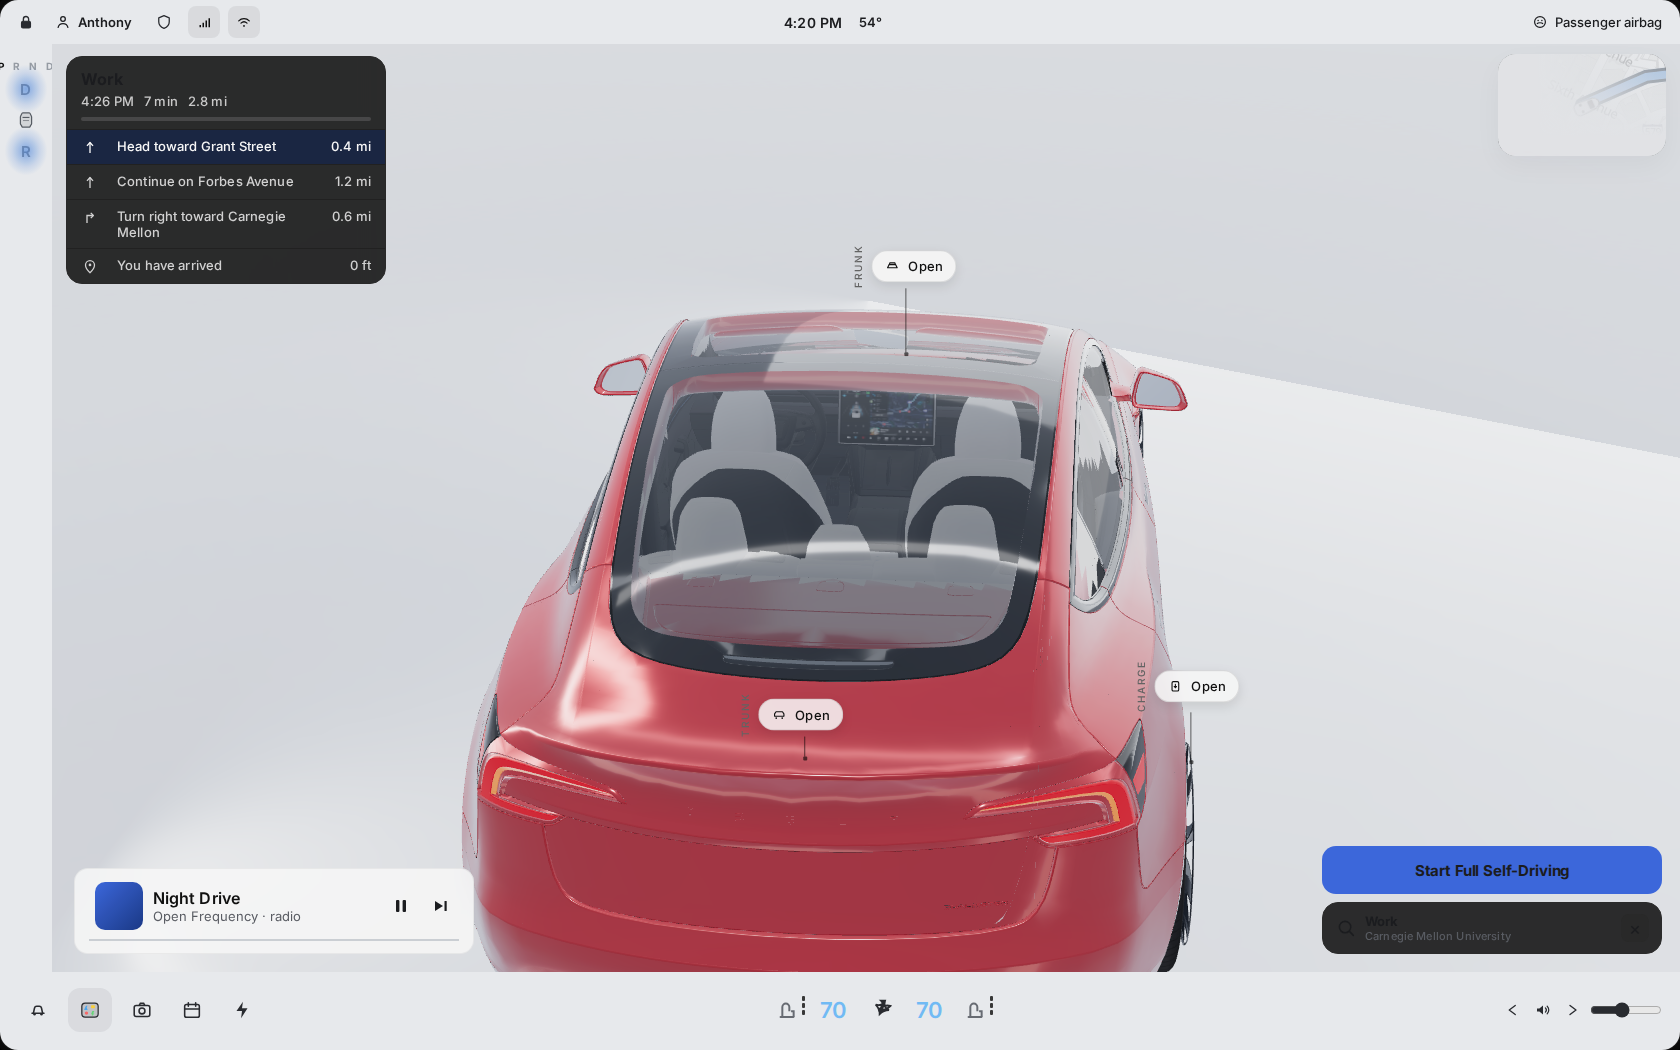
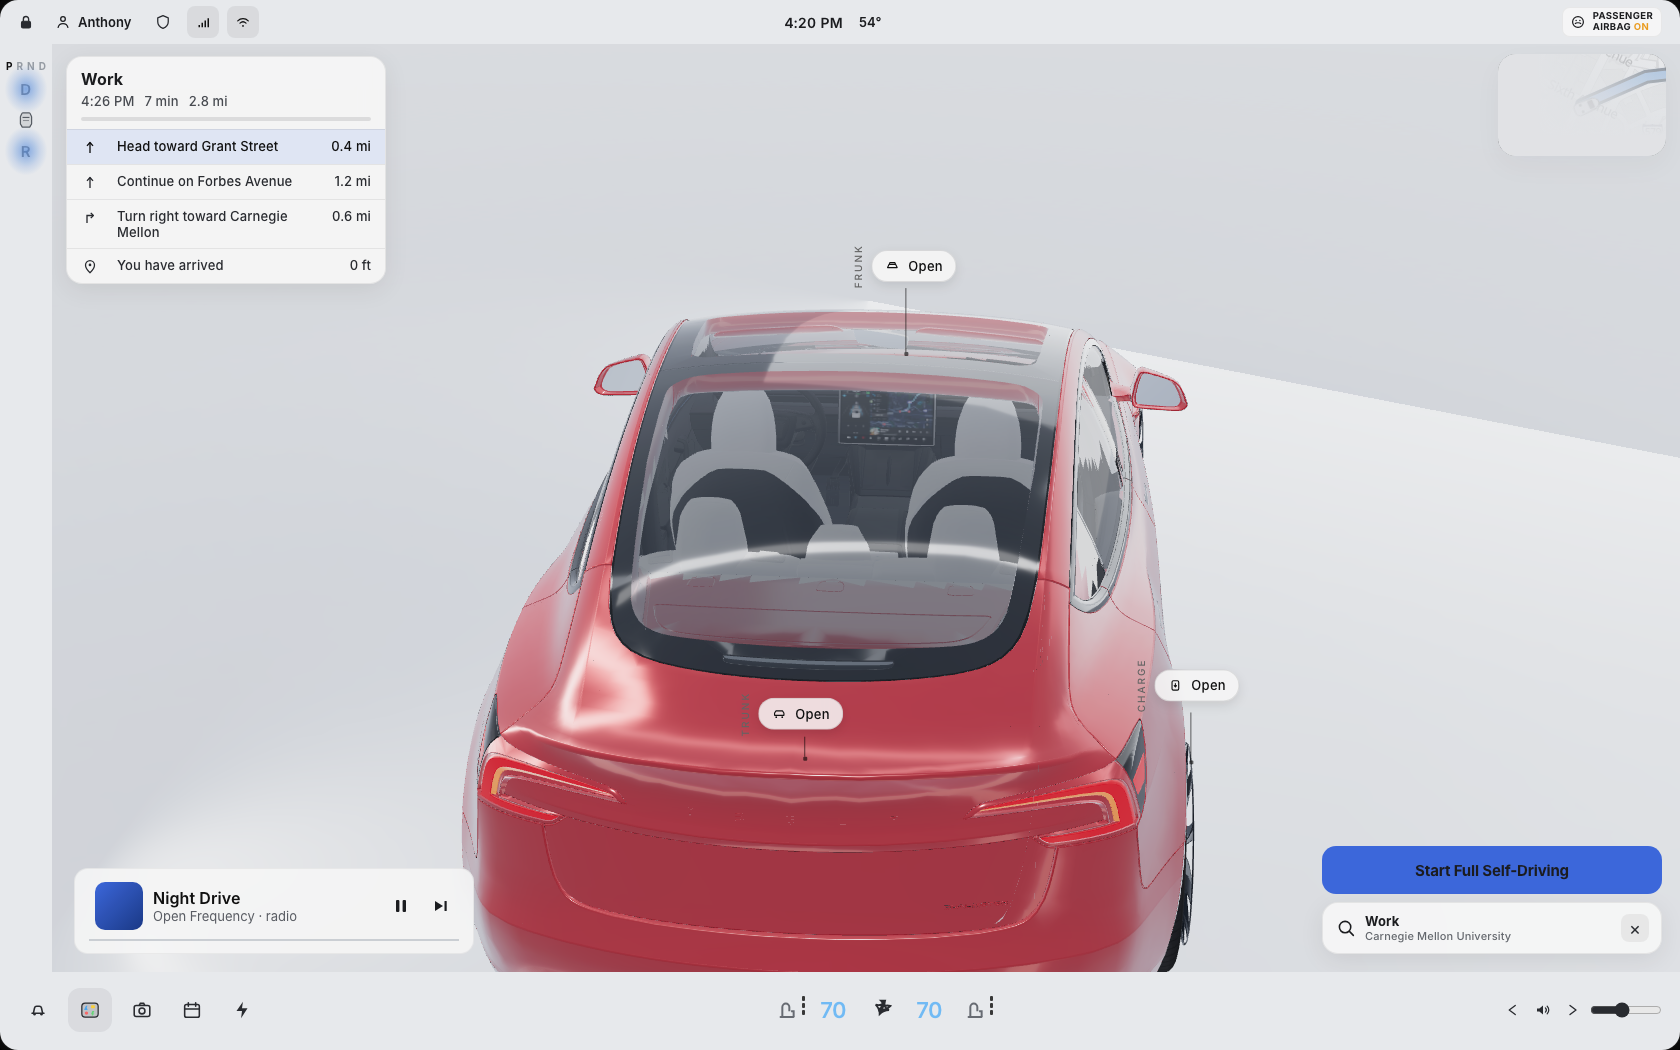
Match status-bar airbag chip and light parked route card to references

diff --git a/src/styles/app.css b/src/styles/app.css
@@ -242,10 +242,12 @@ button {
 
 .auto-shift-prnd {
   display: flex;
-  gap: 7px;
+  justify-content: center;
+  gap: 4px;
+  width: 100%;
   font-size: 10px;
   font-weight: 650;
-  letter-spacing: 0.2em;
+  letter-spacing: 0;
   color: #9aa0a8;
 }
 
@@ -469,6 +471,70 @@ button {
 .status-airbag svg {
   width: 18px;
   height: 18px;
+}
+
+/* Two-line chip, as in nata-status-bar.jpg: PASSENGER / AIRBAG ON. */
+.status-airbag-copy {
+  display: flex;
+  flex-direction: column;
+  font-size: 9.5px;
+  font-weight: 650;
+  line-height: 1.15;
+  letter-spacing: 0.04em;
+  text-transform: uppercase;
+}
+
+.status-airbag-copy em {
+  font-style: normal;
+  color: #f0a020;
+}
+
+.bezel.parked .status-airbag {
+  padding: 4px 9px 4px 7px;
+  border-radius: 8px;
+  background: rgba(255, 255, 255, 0.85);
+  box-shadow: inset 0 0 0 1px rgba(0, 0, 0, 0.06);
+}
+
+/* Parked is the light studio: route card + destination chip follow it. */
+.bezel.parked .route-card,
+.bezel.parked .dest-chip {
+  background: rgba(255, 255, 255, 0.9);
+  border-color: rgba(0, 0, 0, 0.07);
+  color: #1c1d20;
+  box-shadow: 0 6px 24px rgba(0, 0, 0, 0.08);
+}
+
+.bezel.parked .eta-row {
+  color: #4a4d53;
+}
+
+.bezel.parked .turn {
+  color: #2a2c31;
+  border-top-color: rgba(0, 0, 0, 0.07);
+}
+
+.bezel.parked .turn.on {
+  background: #e6ecfa;
+  color: #111;
+}
+
+.bezel.parked .trip-bar {
+  background: rgba(0, 0, 0, 0.1);
+}
+
+.bezel.parked .dest-chip span span {
+  color: #666a70;
+}
+
+.bezel.parked .chip-x {
+  background: rgba(0, 0, 0, 0.06);
+  color: #2a2c31;
+}
+
+.bezel.parked .route-actions {
+  background: #f4f5f7;
+  border-top-color: rgba(0, 0, 0, 0.07);
 }
 
 .status-weather {

diff --git a/src/chrome/StatusBar.tsx b/src/chrome/StatusBar.tsx
@@ -86,7 +86,12 @@ export function StatusBar() {
       <div className="status-right">
         <span className="status-airbag" title="Passenger airbag on">
           <IconAirbag />
-          <span>Passenger airbag</span>
+          <span className="status-airbag-copy">
+            <span>Passenger</span>
+            <span>
+              Airbag <em>On</em>
+            </span>
+          </span>
         </span>
       </div>
     </header>

diff --git a/docs/qa/CHECKLIST.md b/docs/qa/CHECKLIST.md
@@ -20,7 +20,7 @@ Baseline captured from this harness on 2026-09-16 (`docs/qa/screenshots/*.png`).
 | Scene | Latest still | vs reference | Status | Notes (update me) |
 | --- | --- | --- | --- | --- |
 | Parked home | `screenshots/parked-home.png` | `manual-m3-touchscreen-p8.jpg`, `nata-parked-car-vis.jpg`, `nata-status-bar.jpg` | PARTIAL | 2026-09-25. TRUNK card sits on the decklid (`parked-cabin.png` is the glasshouse crop). Cabin pads, dash, and floors use interior colors; Ultra Red stays on the outer shell. Paint, glass, wheels, lighting, and leaders stay PARTIAL. See `MESH_REVIEW.md`. |
-| Route set | `screenshots/route-set.png` | `manual-m3-maps-nav-p170.jpg`, `nata-trip-progress.jpg` | PARTIAL | Turn list + Start FSD sit on the parked fullscreen (map snippet TR). Trip progress track is on the card; at the origin it is empty because nothing has been driven. Gray traveled path appears once the car moves (see FSD still). No traffic coloring, no energy-to-destination. |
+| Route set | `screenshots/route-set.png` | `manual-m3-maps-nav-p170.jpg`, `nata-trip-progress.jpg` | PARTIAL | 2026-09-28: route card, turn rows, and destination chip use the light parked studio (no dark glass on the white scene). Turn list + Start FSD sit on the parked fullscreen (map snippet TR). Trip progress track is on the card; at the origin it is empty because nothing has been driven. Gray traveled path appears once the car moves (see FSD still). No traffic coloring, no energy-to-destination. |
 | FSD engaged | `screenshots/fsd-engaged.png` | `nata-ui-v12-hero.jpg`, `nata-intel-spring-update.jpg`, `nata-regen-speedometer.jpg` (`manual-m3-driving-status-p16.jpg` is Car Status p.14, not a driving viz) | PARTIAL | Low rear chase. Speed reads the number plus **mph** (not a mode name), hairline power bar on the left. Media card: title left, art right, `m:ss` and `−m:ss` on the scrubber. Gray street, blue lane, charcoal map with streets. Car mesh is the Studio Highland import. |
 | Controls open | `screenshots/controls.png` | `nata-quick-controls.jpg`, `nata-controls-search.jpg` | PARTIAL | Search Settings at top. Left rail: Controls / Dynamics / Charging / Autopilot / Locks / Lights / Display / Trips / Navigation / Safety / Service / Software / Wi-Fi. Quick Controls: lights Off–Auto + Auto High Beam, Fold Mirrors / Child Lock / Window Lock, wipers Off–IIII, Mirrors / Unavailable / Car Wash, Steering / Camera / Glovebox, brightness + Auto. Overlay sits on the **map** (viz stays). Remaining: not pixel-identical icons/type. |
 | Climate open | `screenshots/climate.png` | `manual-m3-climate-popup-p160.jpg` | PARTIAL | Compact dock popup: main climate, seat heat, front/rear defrost, temp slider, Split. Not the full main climate screen (vent targets / Dog / Camp). |
@@ -32,7 +32,7 @@ Baseline captured from this harness on 2026-09-16 (`docs/qa/screenshots/*.png`).
 | Check | Reference | Status | Notes |
 | --- | --- | --- | --- |
 | Typeface | Tesla UI is not Plus Jakarta Sans | PARTIAL | Inter Tight (licensed grotesque) via Google Fonts. Still not Tesla Sans / Universal. Do not rip car fonts. |
-| Status bar order (Park) | `nata-status-bar.jpg` | PARTIAL | Lock, profile+name, Sentry, Wi‑Fi toward the driver; clock + outdoor temp center; passenger airbag right. Cellular/range chips omitted vs some stills. |
+| Status bar order (Park) | `nata-status-bar.jpg` | PARTIAL | Lock, profile+name, Sentry, Wi‑Fi toward the driver; clock + outdoor temp center; passenger airbag right as the two-line PASSENGER / AIRBAG **ON** chip (amber ON, light pill when parked). Cellular/range chips omitted vs some stills. |
 | PRND / Auto Shift | `nata-auto-shift.jpg` | PARTIAL | Parked is a tight PRND header + D / top-down car / R with blue magnet halos. Missing nata chevron dots. Driving still uses the taller strip. |
 | Dock: My Apps + climate cluster + volume | `manual-m3-touchscreen-p8.jpg` | PARTIAL | Parked dock is light to match the studio. Car + folder All Apps (2026.14 glyph) left, climate cluster center, volume right. Extra pinned app icons remain. |
 | Phone portrait (~390×844) | Mobile QA, not a Tesla phone UI | PASS | At ≤520px the dock is two rows (climate, then apps + volume). Charge/Frunk/Trunk are in-layout buttons; Navigate is full width; the disclaimer wraps inside the viewport. ≥521px, including phone landscape, keeps the single-row dock and 3D callouts. |
